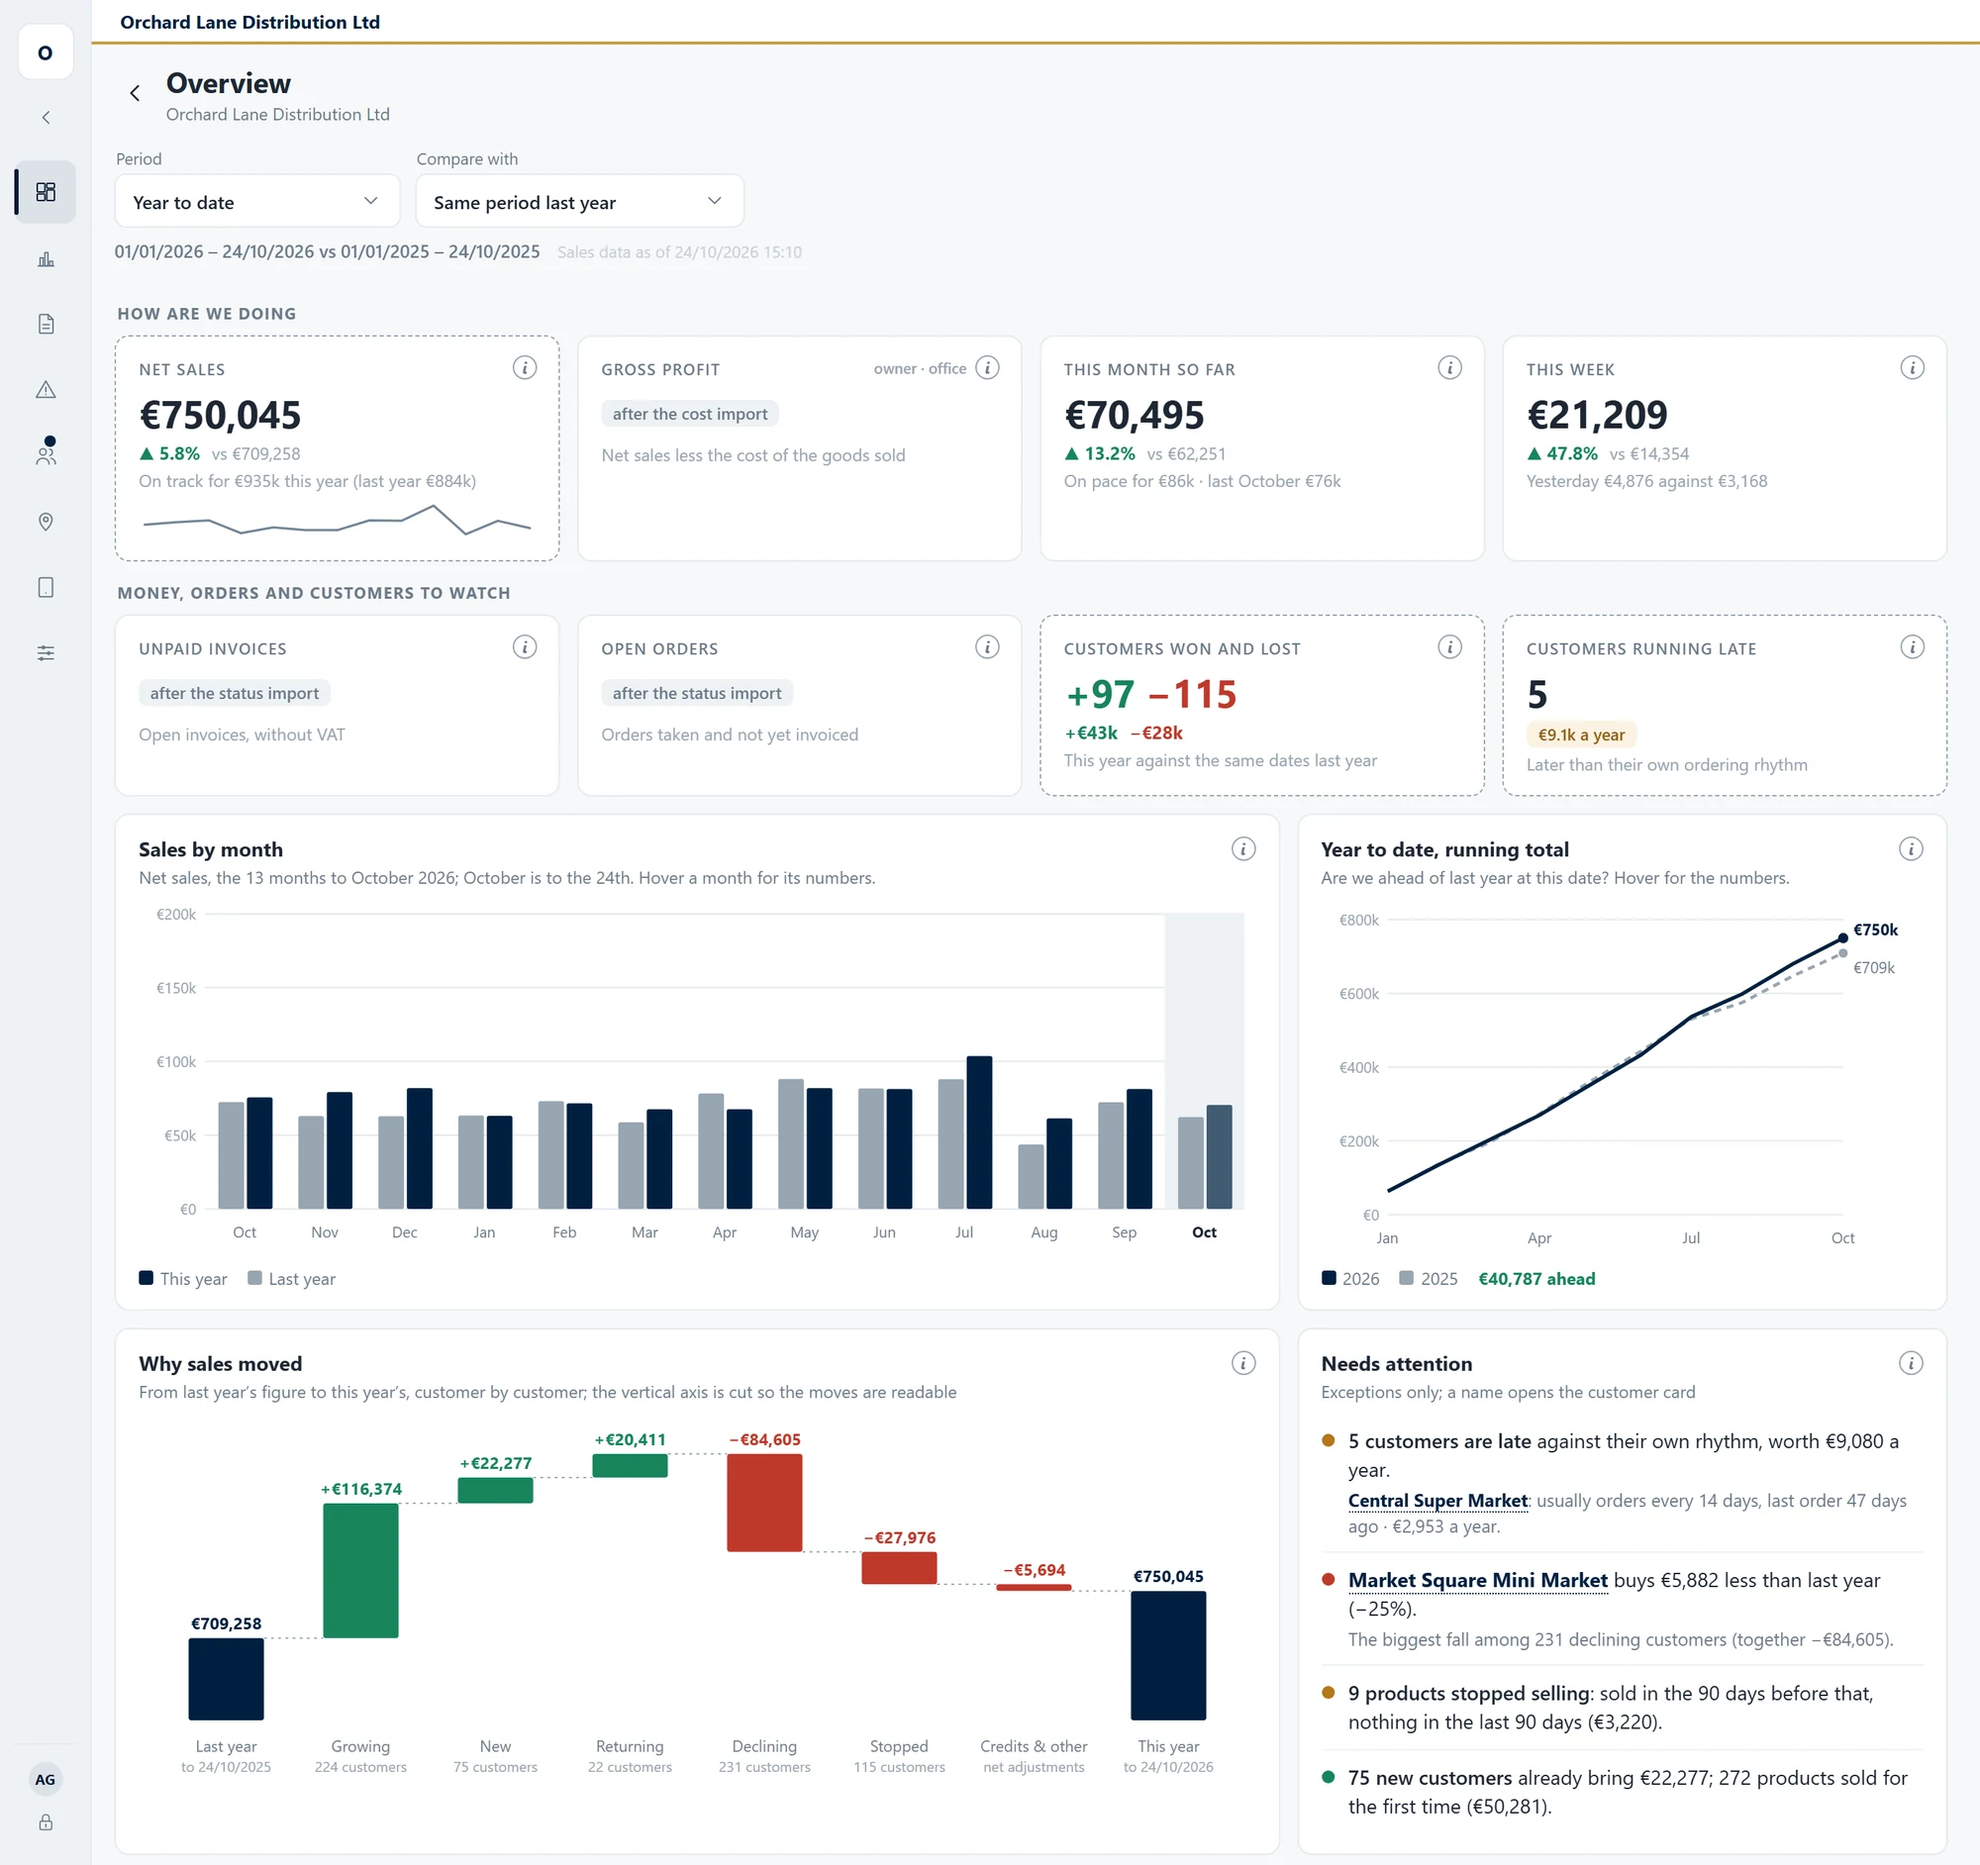
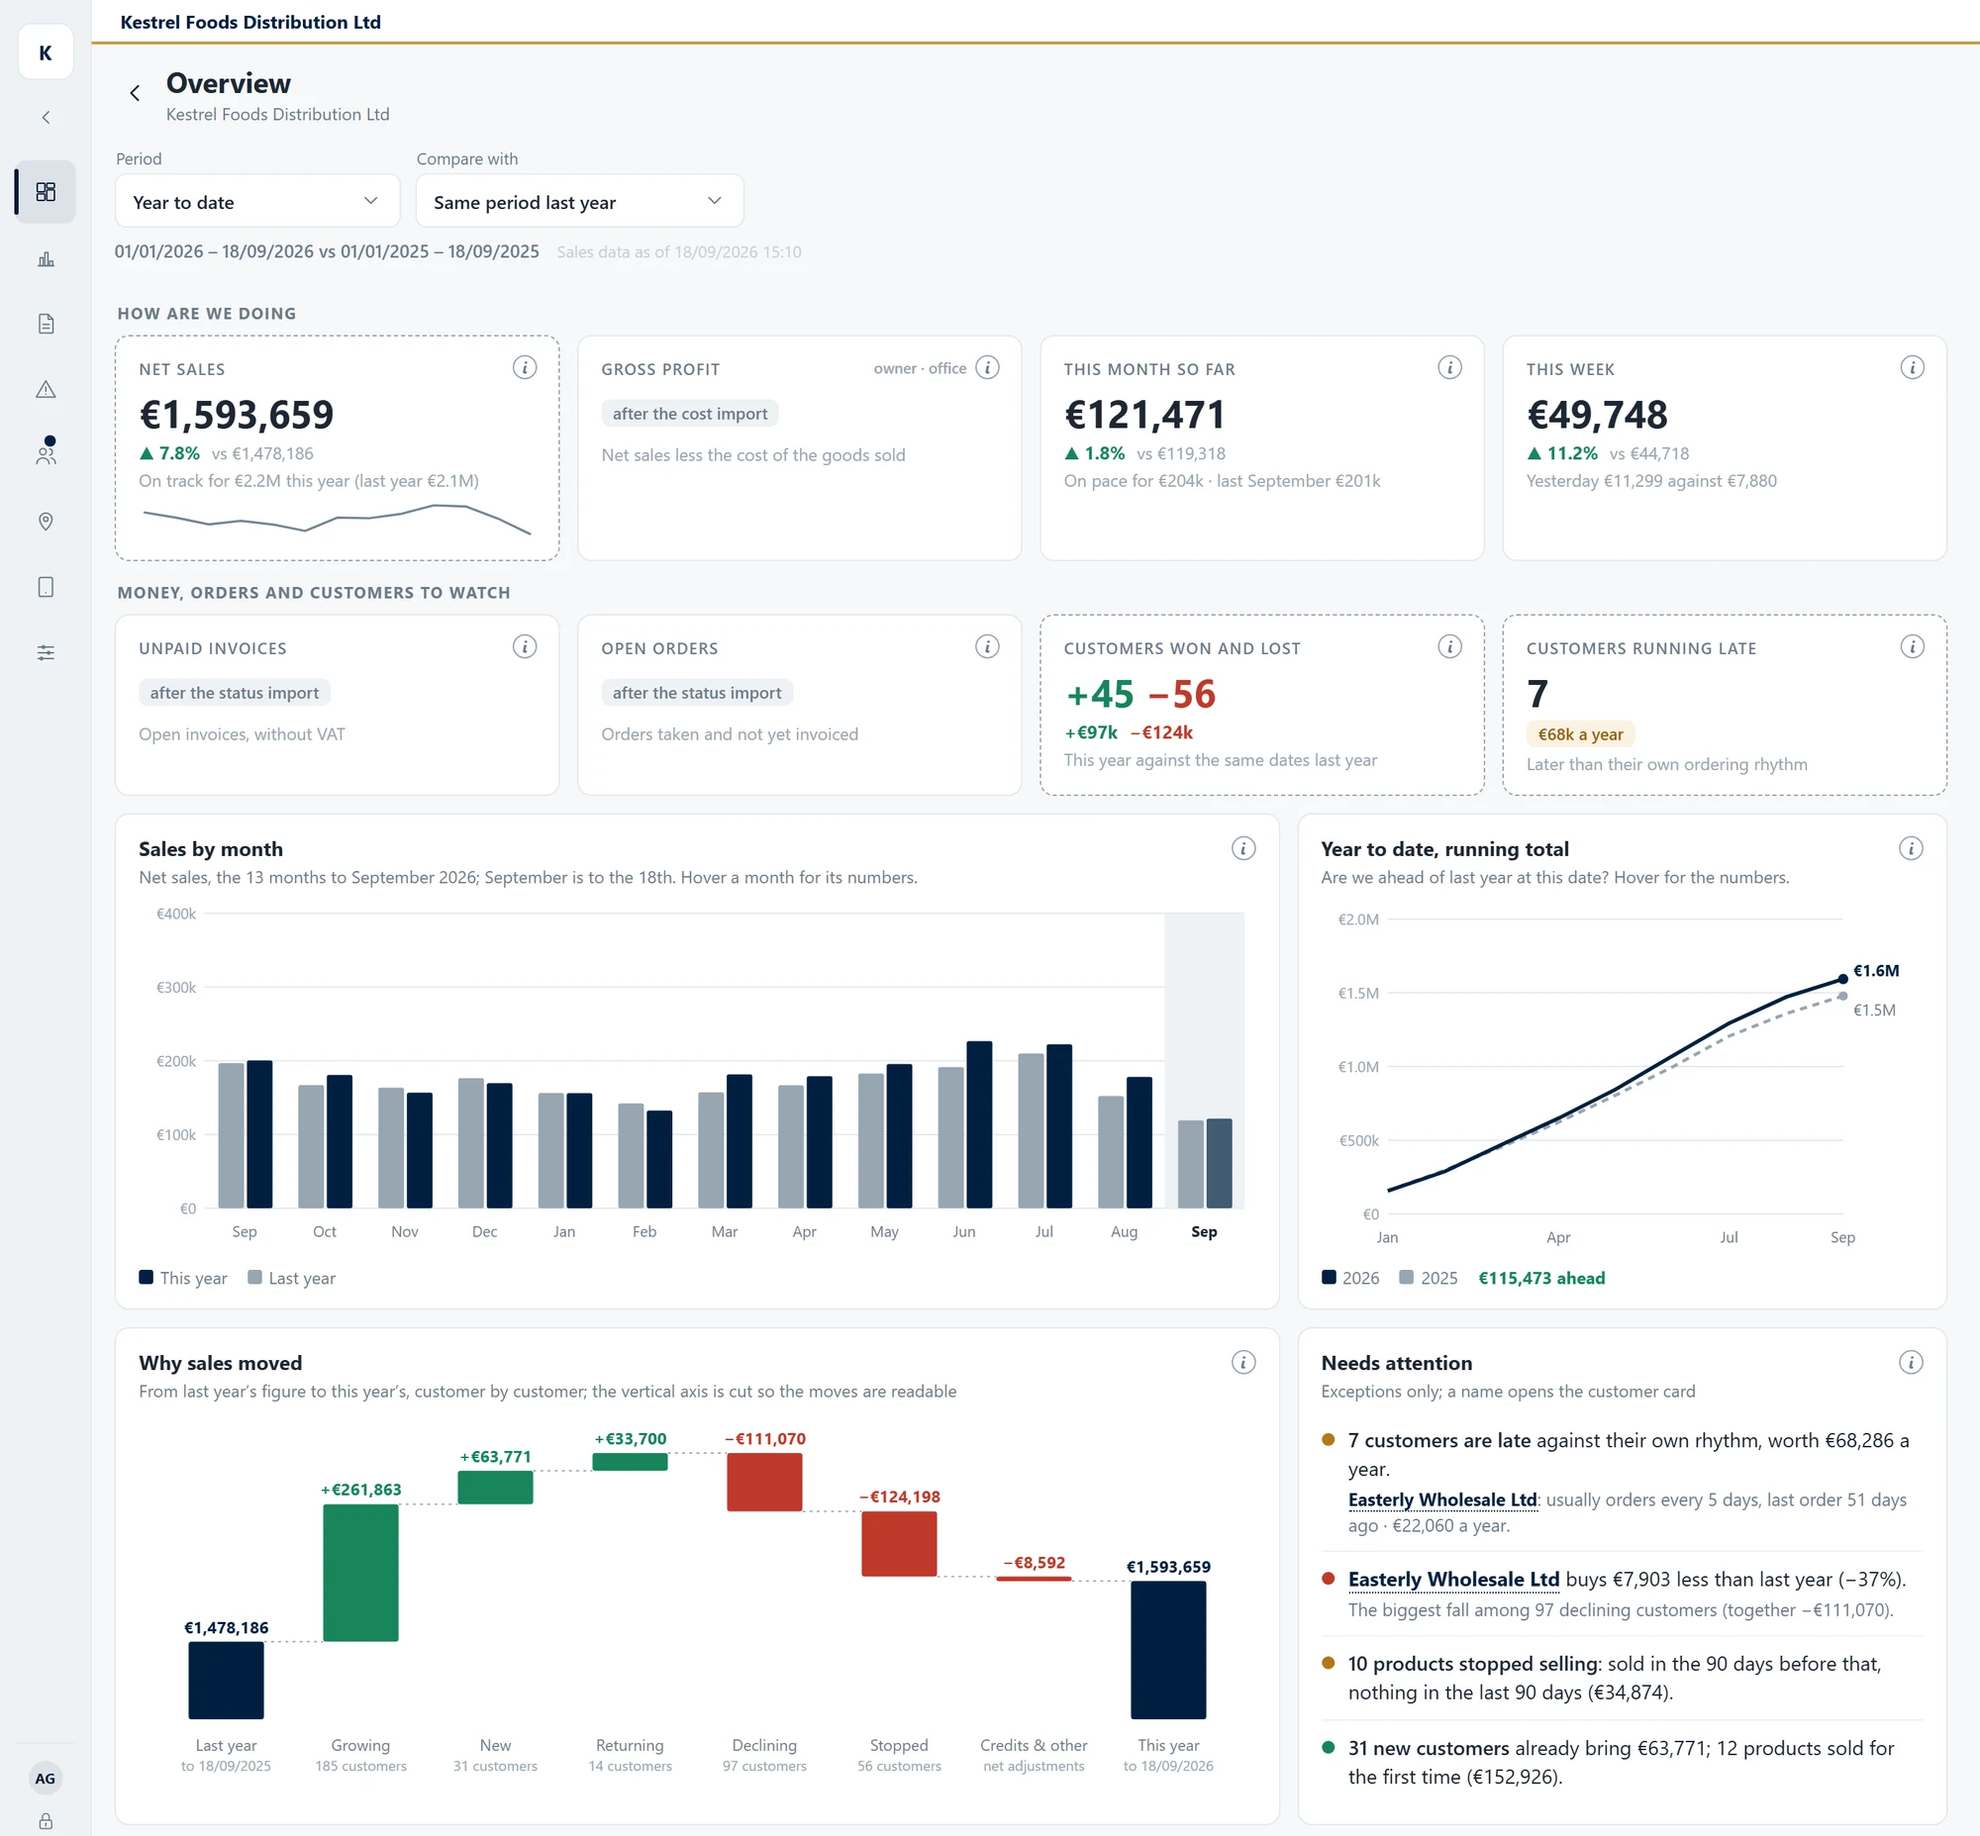
Sales page: re-shoot the BI screens from a fully invented company
The earlier screens came from a fixture derived from a real customer's
data (names anonymised, numbers kept). Every figure is now invented:
customers, group sizes, percentages, rhythms, products and dates.
Same south-Cyprus town names; preview clock moved to 18/09/2026.

diff --git a/_content/sales_page.html b/_content/sales_page.html
@@ -372,7 +372,7 @@
       <a class="sx-shot-link" href="/sales/bi-overview.png" target="_blank" rel="noopener">
         <picture class="sx-pic">
           <source type="image/webp" srcset="/sales/bi-overview.webp">
-          <img class="sx-shot" src="/sales/bi-overview.png" width="2000" height="1884" loading="lazy" decoding="async" translate="no" alt="The ProInsights Sales Overview screen: net sales, this month and this week against last year, customers won and lost, sales by month, year to date, why sales moved and a Needs attention list">
+          <img class="sx-shot" src="/sales/bi-overview.png" width="2000" height="1855" loading="lazy" decoding="async" translate="no" alt="The ProInsights Sales Overview screen: net sales, this month and this week against last year, customers won and lost, sales by month, year to date, why sales moved and a Needs attention list">
         </picture>
       </a>
       <figcaption class="sx-cap">Real app screen with sample data: an invented company, not a customer's figures. Gross profit, unpaid invoices and open orders are shown empty: they need cost and invoice-status imports that are not built yet. <a href="/sales/bi-overview.png" target="_blank" rel="noopener">Open full size</a></figcaption>
@@ -402,7 +402,7 @@
         <a class="sx-shot-link sx-shot-card" href="/sales/bi-customer-card.png" target="_blank" rel="noopener">
           <picture class="sx-pic">
             <source type="image/webp" srcset="/sales/bi-customer-card.webp">
-            <img class="sx-shot" src="/sales/bi-customer-card.png" width="956" height="2740" loading="lazy" decoding="async" translate="no" alt="A ProInsights Sales customer card: last invoice, usual rhythm, sales this year against last year, sales by month, top products, products stopped and regular products now late">
+            <img class="sx-shot" src="/sales/bi-customer-card.png" width="956" height="2815" loading="lazy" decoding="async" translate="no" alt="A ProInsights Sales customer card: last invoice, usual rhythm, sales this year against last year, sales by month, top products, products stopped and regular products now late">
           </picture>
         </a>
         <figcaption class="sx-cap">Real app screen with sample data: an invented customer. Margin, unpaid invoices and open orders are empty until cost and invoice-status imports are built. <a href="/sales/bi-customer-card.png" target="_blank" rel="noopener">Open full size</a></figcaption>
@@ -418,10 +418,10 @@
       <a class="sx-shot-link" href="/sales/bi-products.png" target="_blank" rel="noopener">
         <picture class="sx-pic">
           <source type="image/webp" srcset="/sales/bi-products.webp">
-          <img class="sx-shot" src="/sales/bi-products.png" width="2000" height="1360" loading="lazy" decoding="async" translate="no" alt="The ProInsights Sales Products screen: products sold, new products, top ten share, products stopped selling, top products and sales by product group against last year">
+          <img class="sx-shot" src="/sales/bi-products.png" width="2000" height="1193" loading="lazy" decoding="async" translate="no" alt="The ProInsights Sales Products screen: products sold, new products, top ten share, products stopped selling, average discount, top products and sales by product group against last year">
         </picture>
       </a>
-      <figcaption class="sx-cap">Real app screen with sample data. Margin by group comes with a cost import that is not built yet. <a href="/sales/bi-products.png" target="_blank" rel="noopener">Open full size</a></figcaption>
+      <figcaption class="sx-cap">Real app screen with sample data: an invented company, not a customer's figures. Margin by group comes with a cost import that is not built yet. <a href="/sales/bi-products.png" target="_blank" rel="noopener">Open full size</a></figcaption>
     </figure>
   </div>
 </section>

diff --git a/sales/index.html b/sales/index.html
@@ -427,7 +427,7 @@
       <a class="sx-shot-link" href="/sales/bi-overview.png" target="_blank" rel="noopener">
         <picture class="sx-pic">
           <source type="image/webp" srcset="/sales/bi-overview.webp">
-          <img class="sx-shot" src="/sales/bi-overview.png" width="2000" height="1884" loading="lazy" decoding="async" translate="no" alt="The ProInsights Sales Overview screen: net sales, this month and this week against last year, customers won and lost, sales by month, year to date, why sales moved and a Needs attention list">
+          <img class="sx-shot" src="/sales/bi-overview.png" width="2000" height="1855" loading="lazy" decoding="async" translate="no" alt="The ProInsights Sales Overview screen: net sales, this month and this week against last year, customers won and lost, sales by month, year to date, why sales moved and a Needs attention list">
         </picture>
       </a>
       <figcaption class="sx-cap">Real app screen with sample data: an invented company, not a customer's figures. Gross profit, unpaid invoices and open orders are shown empty: they need cost and invoice-status imports that are not built yet. <a href="/sales/bi-overview.png" target="_blank" rel="noopener">Open full size</a></figcaption>
@@ -457,7 +457,7 @@
         <a class="sx-shot-link sx-shot-card" href="/sales/bi-customer-card.png" target="_blank" rel="noopener">
           <picture class="sx-pic">
             <source type="image/webp" srcset="/sales/bi-customer-card.webp">
-            <img class="sx-shot" src="/sales/bi-customer-card.png" width="956" height="2740" loading="lazy" decoding="async" translate="no" alt="A ProInsights Sales customer card: last invoice, usual rhythm, sales this year against last year, sales by month, top products, products stopped and regular products now late">
+            <img class="sx-shot" src="/sales/bi-customer-card.png" width="956" height="2815" loading="lazy" decoding="async" translate="no" alt="A ProInsights Sales customer card: last invoice, usual rhythm, sales this year against last year, sales by month, top products, products stopped and regular products now late">
           </picture>
         </a>
         <figcaption class="sx-cap">Real app screen with sample data: an invented customer. Margin, unpaid invoices and open orders are empty until cost and invoice-status imports are built. <a href="/sales/bi-customer-card.png" target="_blank" rel="noopener">Open full size</a></figcaption>
@@ -473,10 +473,10 @@
       <a class="sx-shot-link" href="/sales/bi-products.png" target="_blank" rel="noopener">
         <picture class="sx-pic">
           <source type="image/webp" srcset="/sales/bi-products.webp">
-          <img class="sx-shot" src="/sales/bi-products.png" width="2000" height="1360" loading="lazy" decoding="async" translate="no" alt="The ProInsights Sales Products screen: products sold, new products, top ten share, products stopped selling, top products and sales by product group against last year">
+          <img class="sx-shot" src="/sales/bi-products.png" width="2000" height="1193" loading="lazy" decoding="async" translate="no" alt="The ProInsights Sales Products screen: products sold, new products, top ten share, products stopped selling, average discount, top products and sales by product group against last year">
         </picture>
       </a>
-      <figcaption class="sx-cap">Real app screen with sample data. Margin by group comes with a cost import that is not built yet. <a href="/sales/bi-products.png" target="_blank" rel="noopener">Open full size</a></figcaption>
+      <figcaption class="sx-cap">Real app screen with sample data: an invented company, not a customer's figures. Margin by group comes with a cost import that is not built yet. <a href="/sales/bi-products.png" target="_blank" rel="noopener">Open full size</a></figcaption>
     </figure>
   </div>
 </section>
